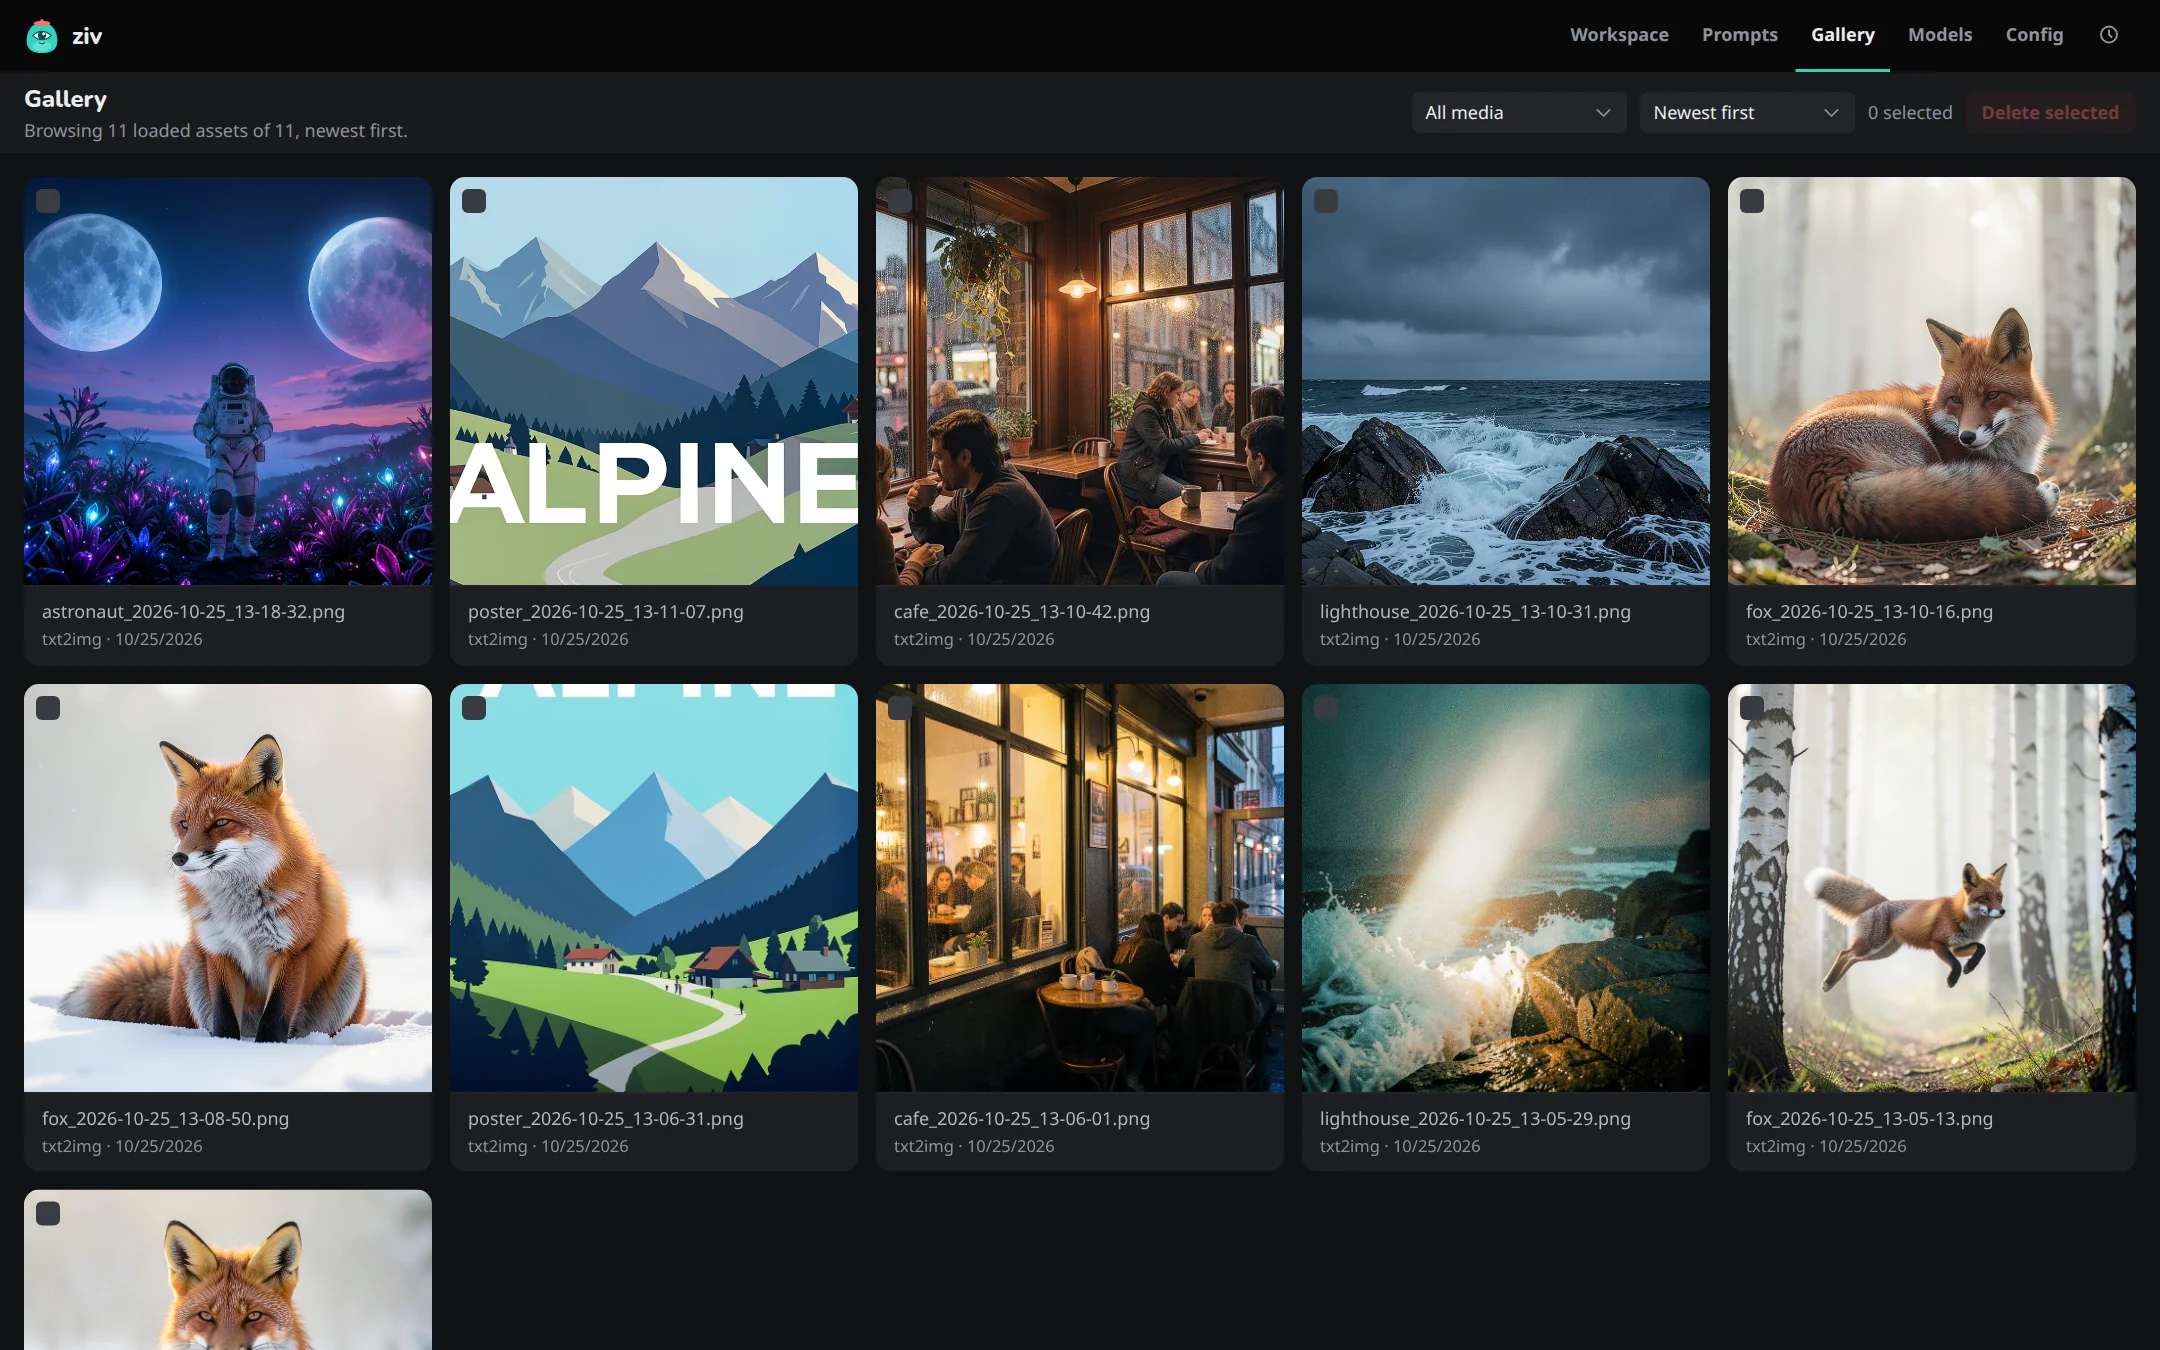
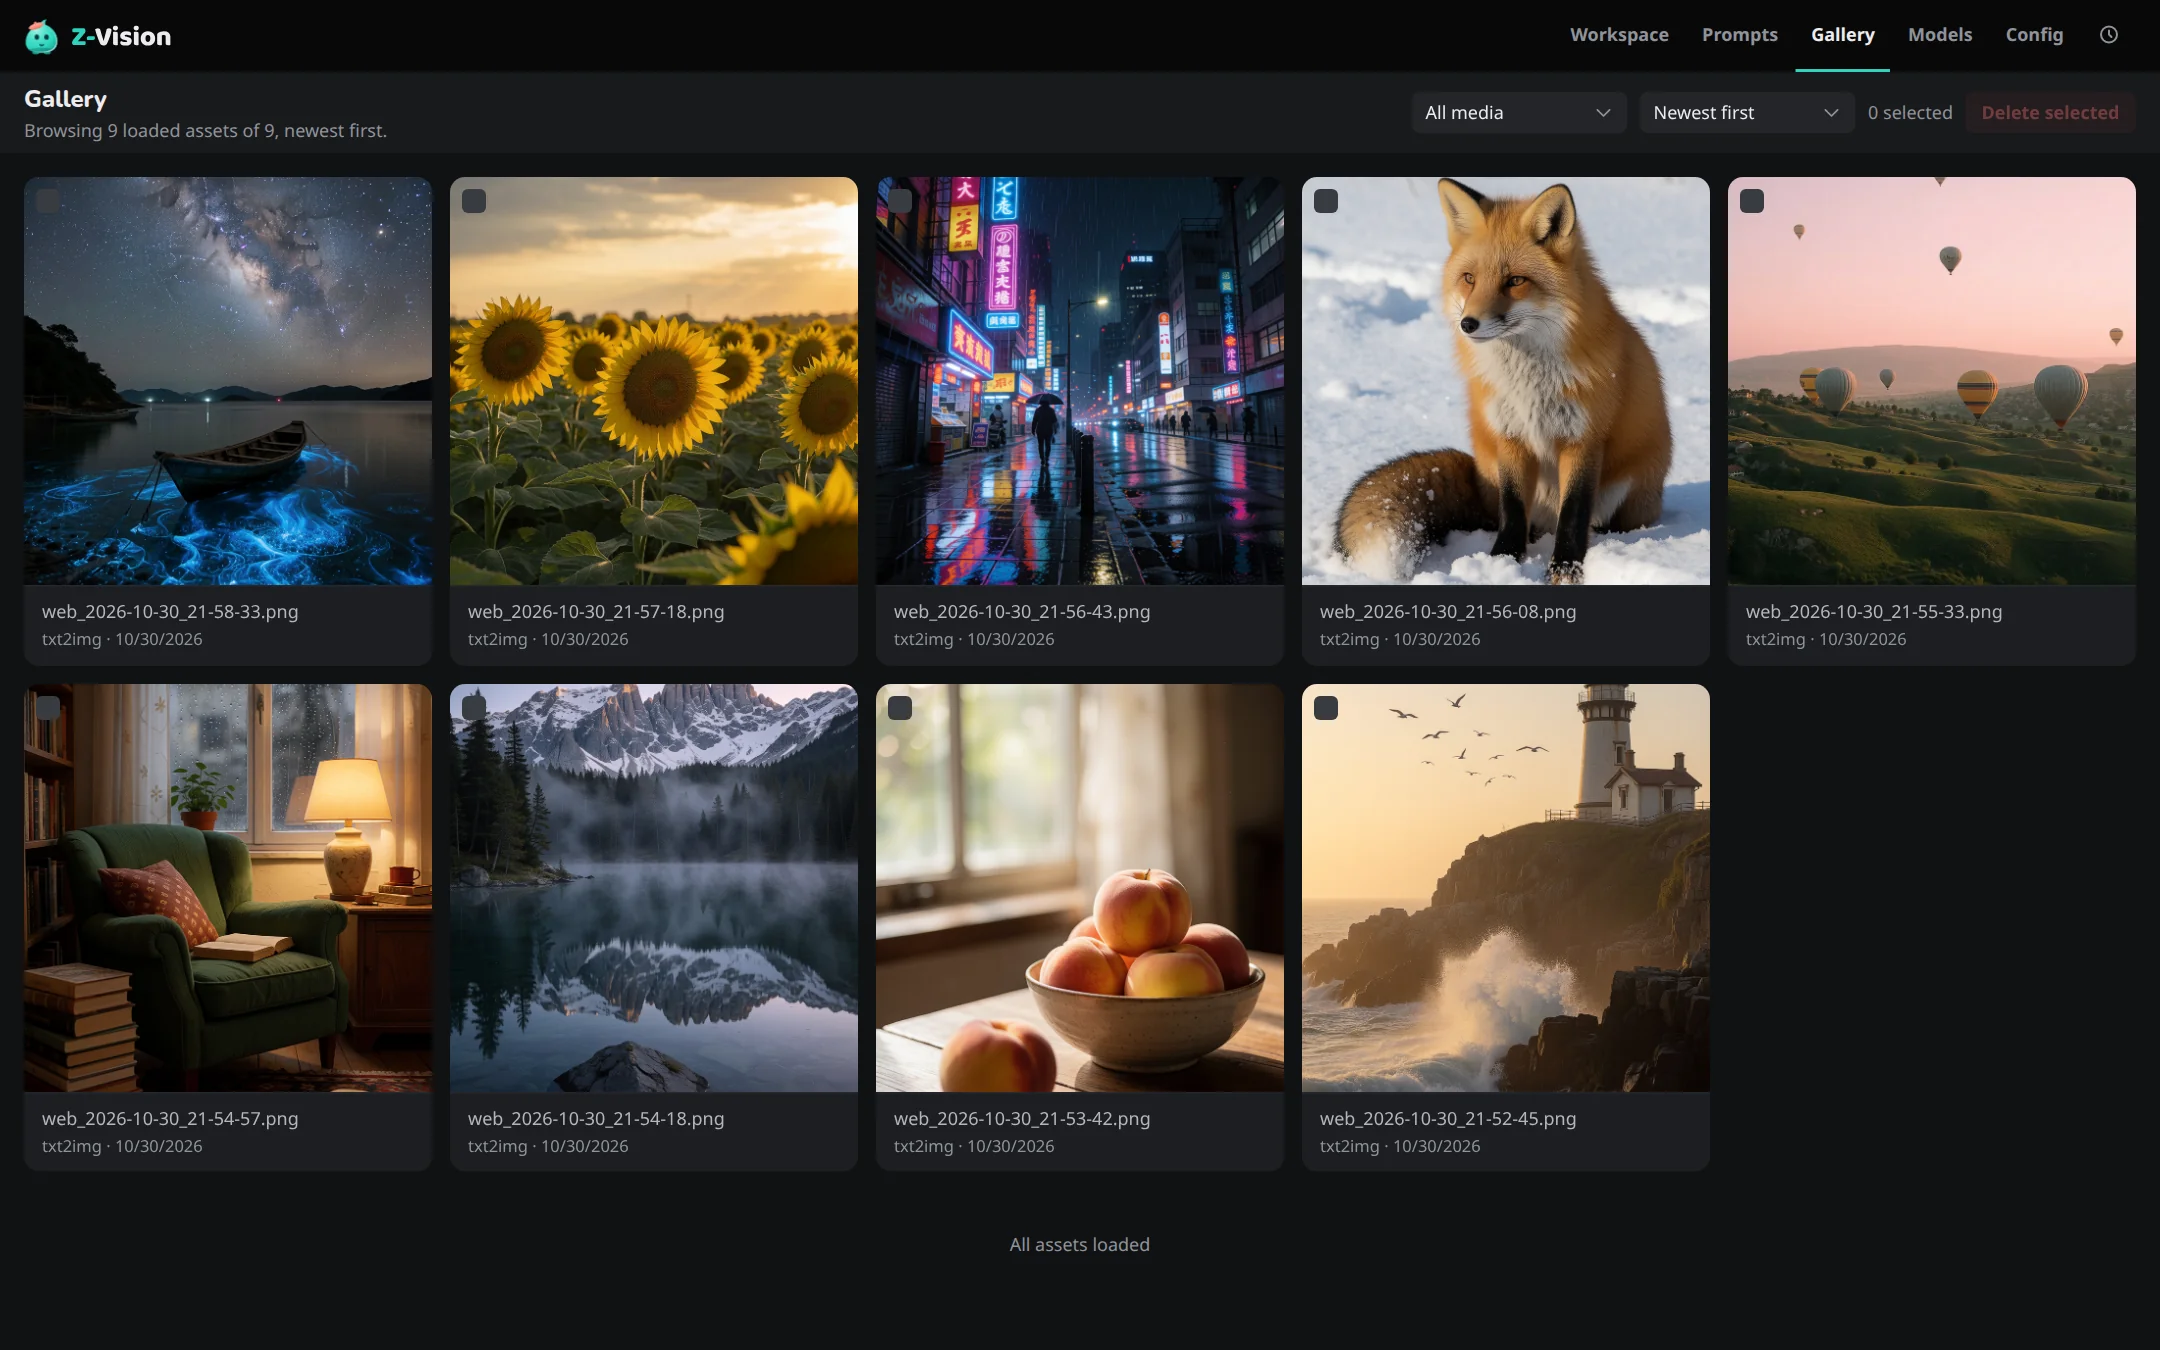
docs: retake the screenshots with Blob Next and the Z-Vision wordmark
- Retake all twelve docs screenshots from a throwaway Web UI
- Use new Krea 2 Turbo demo images and a new enhanced hero
- Point the screenshot script at the new hero image

diff --git a/scripts/docs_screenshots.py b/scripts/docs_screenshots.py
@@ -24,7 +24,7 @@ _DESKTOP = {"width": 1440, "height": 900}
 _PHONE = {"width": 390, "height": 844}
 _SCALE = 1.5
 # The newest output: the image the Workspace and viewer shots show. Generated with the enhancer for the docs.
-_HERO = "astronaut_2026-10-25_13-18-32.png"
+_HERO = "web_2026-10-30_21-58-33.png"
 _DEMO_PROMPT_FILE = "/var/tmp/ziv-docs/data/prompts/demo.yaml"
 
 
